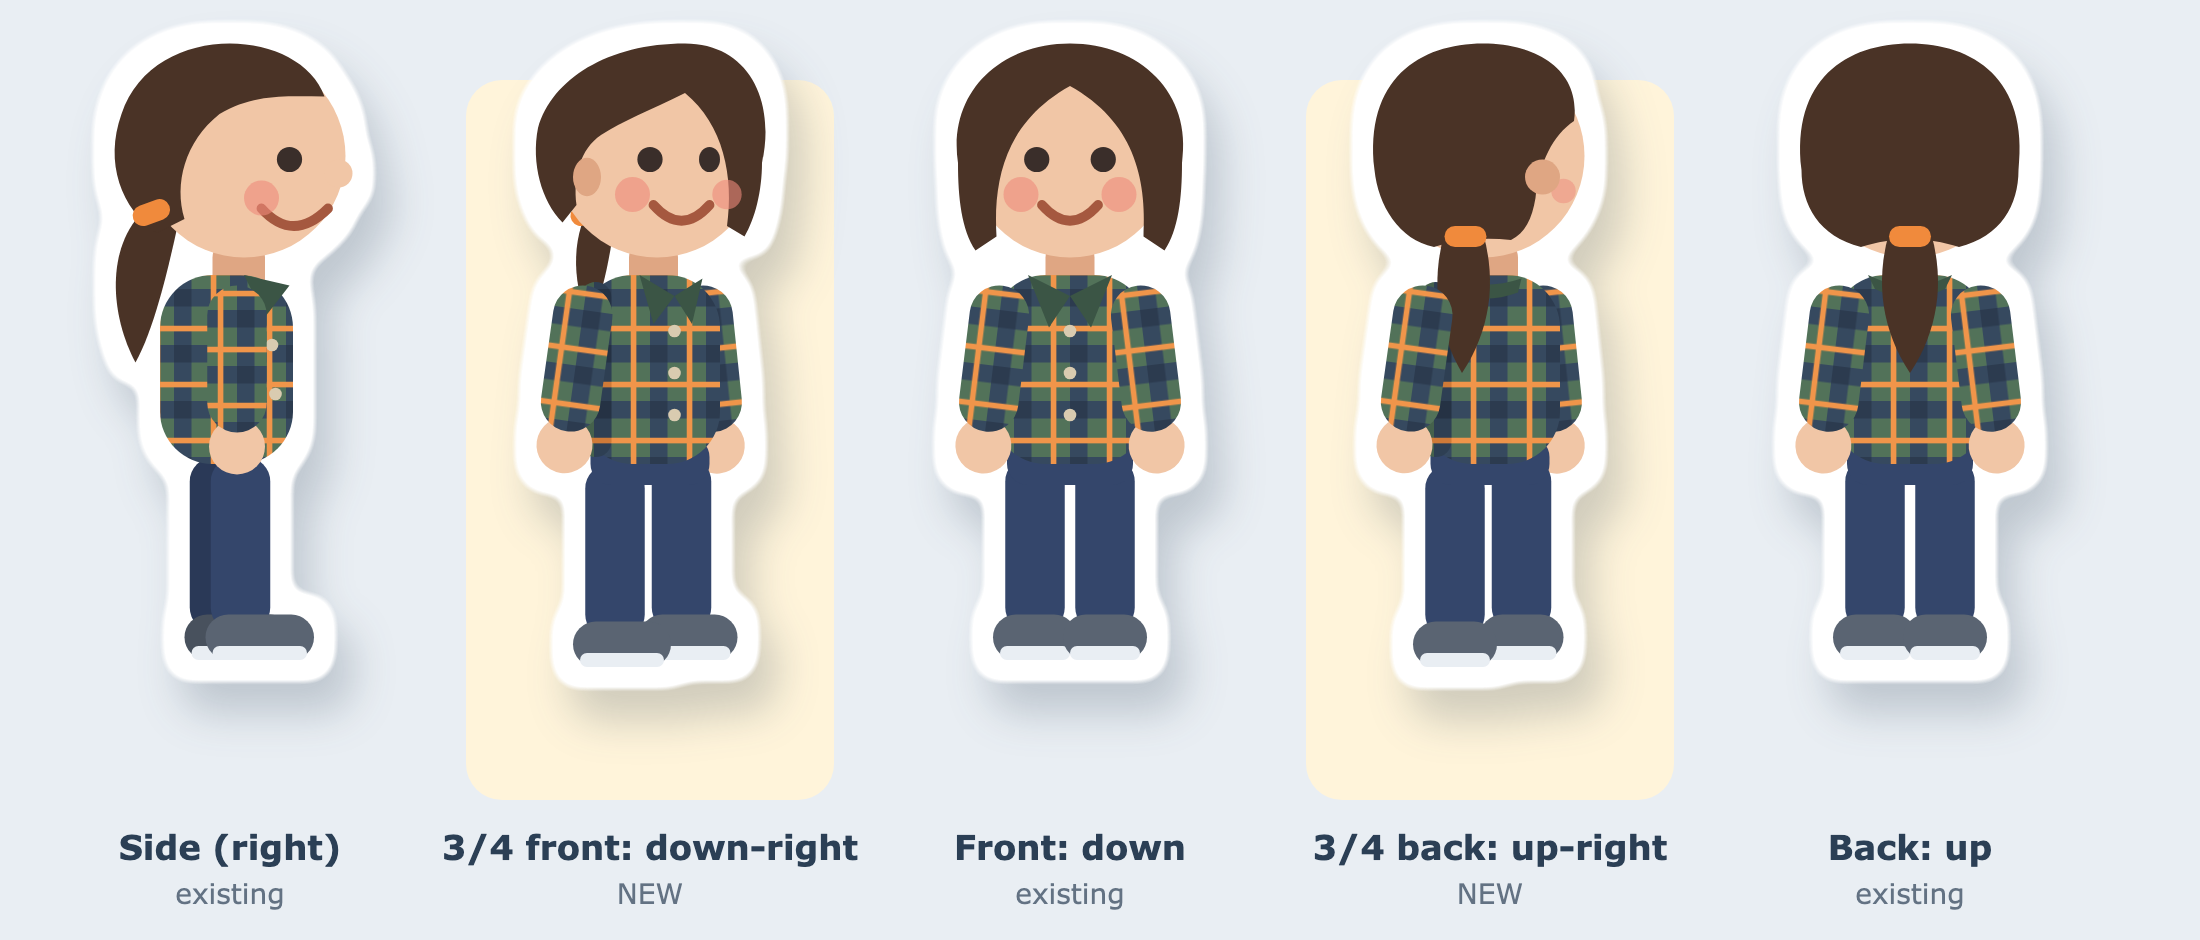
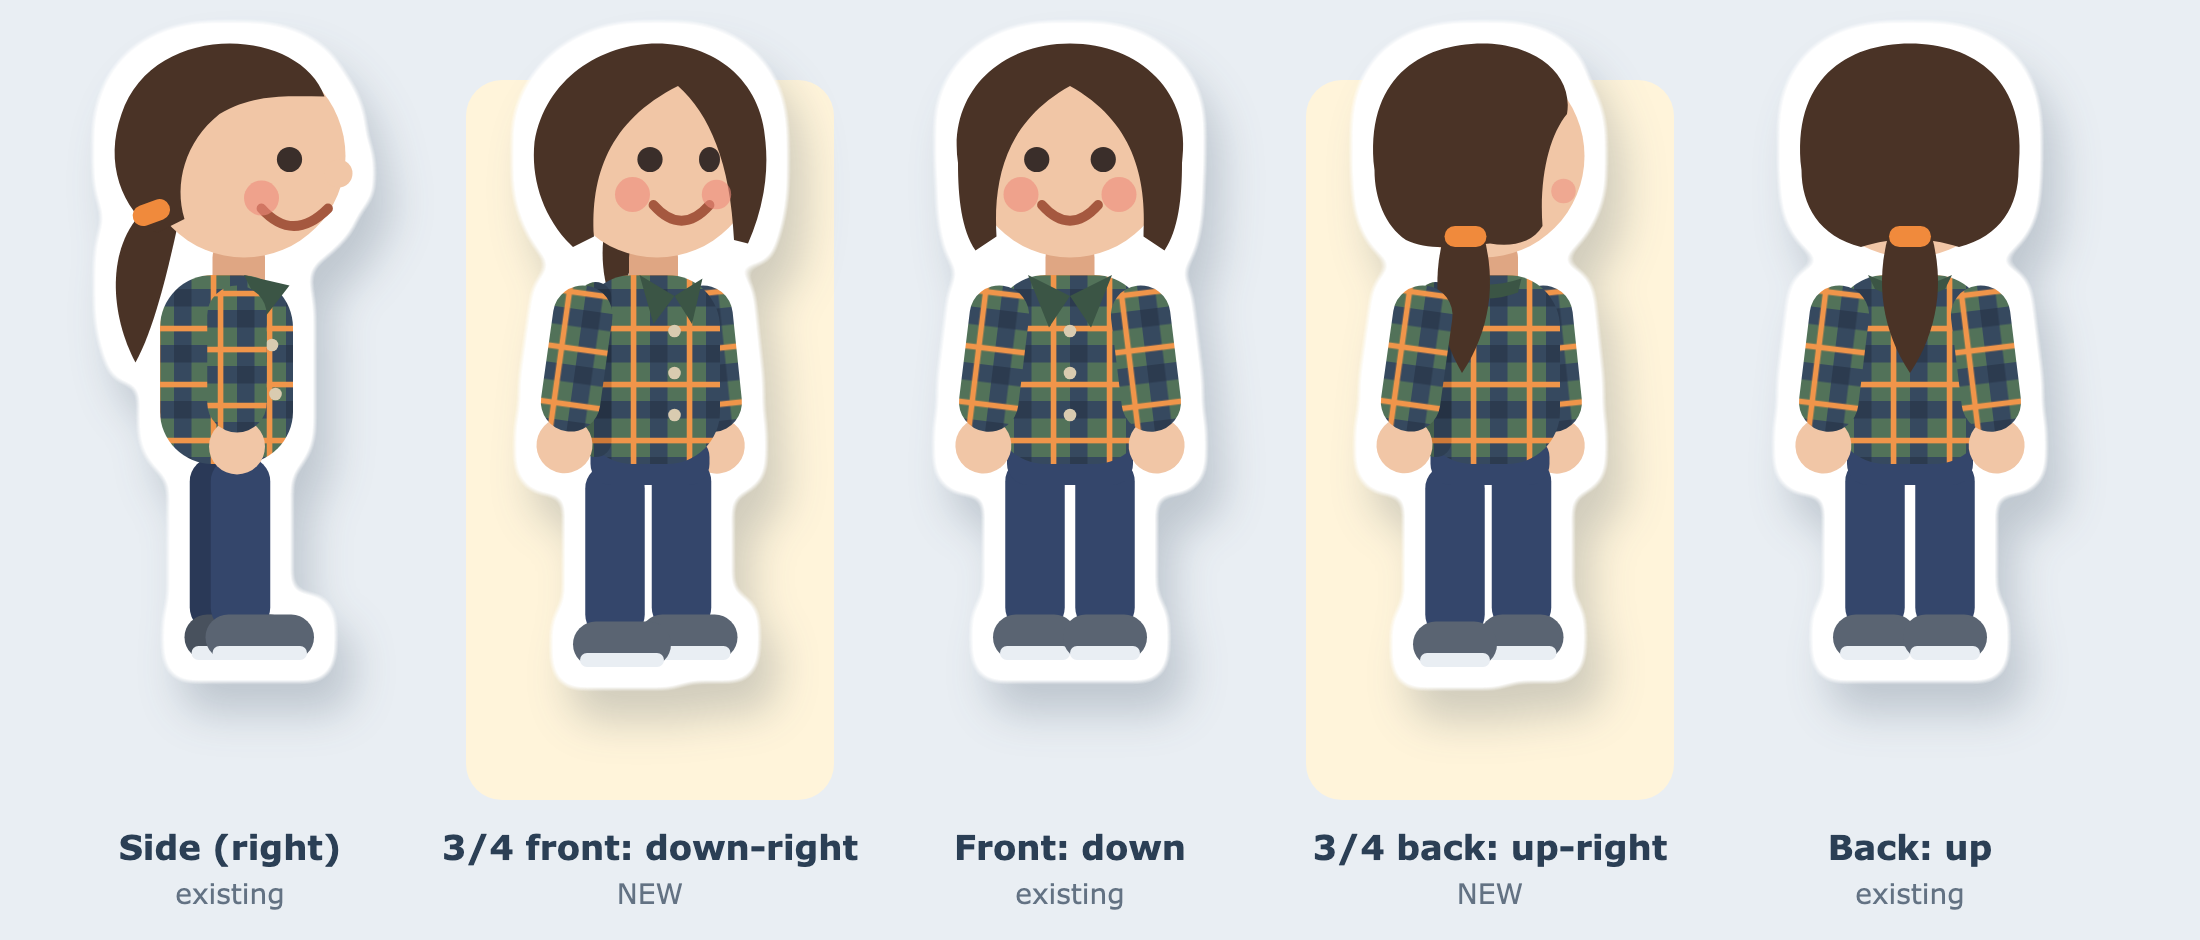
Diagonal mock-up: hair reworked over six review rounds to match the front/back hairstyle, turned
Claude-Session: https://claude.ai/code/session_01BrGLWcTLbFgPLYzVmKCwDF

diff --git a/src/mock_diag.py b/src/mock_diag.py
@@ -40,31 +40,27 @@ def torso_q(back):
     return s
 
 def upper_q_front():
-    # the ponytail hangs from the back of his head, so it is drawn first, behind his body:
-    # only a little shows, past the far side of his neck and shoulder
-    return (f'<path d="M-17,-72 C-23,-62 -22,-48 -17,-38 C-13,-48 -11,-60 -10,-68 Z" fill="{HAIR}"/>'
-        f'<rect x="-23" y="-73" width="10" height="6" rx="3" fill="{HAIR_TIE}" transform="rotate(-30 -18 -70)"/>' +
+    # Hair as in the front view (centre part, falling past the ears to the jaw), turned:
+    # the part sits right of centre, the near (left) side shows more hair, the far side a
+    # narrower fall beside the face. The ponytail hangs behind his neck, just out of sight.
+    return (f'<path d="M-11,-72 C-15,-62 -14,-50 -10,-42 C-6,-50 -4,-60 -3,-68 Z" fill="{HAIR}"/>' +
         torso_q(False) +
         f'<circle cx="2" cy="-86" r="29" fill="{SK}"/>'
-        # hair: part right of centre; on the right it falls to the jaw beside his face, on
-        # the left it is pulled back over the ear to the tie at the nape (like the side view)
-        f'<path d="M10,{T} C28,{T} 36,-102 32,-84 C32,-76 30,-68 27,-63 L22,-66 '
-        f'C24,-80 21,-95 10,-104 C0,-99 -8,-96 -14,-92 C-20,-88 -22,-80 -21,-72 '
-        f'L-25,-67 C-31,-73 -34,-84 -32,-94 C-28,-108 -12,{T} 10,{T} Z" fill="{HAIR}"/>'
-        f'<ellipse cx="-18" cy="-80" rx="4" ry="5.5" fill="{SK2}"/>'   # near ear, in front of the pulled-back hair
+        f'<path d="M28,-61 C32,-70 34,-80 33,-90 C32,-108 18,{T} 2,{T} C-14,{T} -30,-108 -33,-90 '
+        f'C-34,-80 -31,-70 -24,-62 L-22,-60 L-16,-63 C-17,-80 -12,-96 8,-106 C17,-98 23,-84 24,-62 Z" fill="{HAIR}"/>'
         # face turned right: near eye round, far eye a little narrower
         f'<circle cx="0" cy="-85" r="3.6" fill="{EYE}"/><ellipse cx="17" cy="-85" rx="3" ry="3.6" fill="{EYE}"/>'
         f'<path d="M1,-72 Q9,-63 17,-72" fill="none" stroke="{MOUTH}" stroke-width="2.8" stroke-linecap="round"/>'
-        f'<circle cx="-5" cy="-75" r="5" fill="{CHEEK}" opacity=".6"/><circle cx="22" cy="-75" r="4.2" fill="{CHEEK}" opacity=".6"/>')
+        f'<circle cx="-5" cy="-75" r="5" fill="{CHEEK}" opacity=".6"/><circle cx="19" cy="-75" r="4.2" fill="{CHEEK}" opacity=".6"/>')
 
 def upper_q_back():
+    # the back view turned right: hair over the whole back of the head and hanging to the
+    # jaw on the face side, with his cheek and jaw showing in front of it; ponytail down the back
     return (torso_q(True) +
         f'<circle cx="-2" cy="-86" r="29" fill="{SK}"/>'
         f'<circle cx="21" cy="-76" r="3.5" fill="{CHEEK}" opacity=".5"/>'
-        # hair pulled back from the turned-away face: cheek, jaw and ear show on the right
-        f'<path d="M-33,-82 C-36,-108 -20,{T} -2,{T} C14,{T} 26,-110 24,-96 '
-        f'C18,-92 14,-84 13,-74 C12,-68 10,-64 6,-62 C-2,-63 -10,-62 -16,-60 C-26,-62 -32,-72 -33,-82 Z" fill="{HAIR}"/>'
-        f'<circle cx="15" cy="-80" r="5" fill="{SK2}"/>'              # ear, just behind the hairline
+        f'<path d="M-33,-82 C-36,-108 -20,{T} -2,{T} C12,{T} 24,-110 22,-98 '
+        f'C17,-92 14,-80 15,-66 C12,-61 6,-60 0,-61 C-10,-60 -18,-59 -24,-62 C-30,-66 -33,-74 -33,-82 Z" fill="{HAIR}"/>'
         f'<path d="M-13,-64 C-17,-50 -15,-36 -8,-24 C0,-36 2,-50 -2,-64 Z" fill="{HAIR}"/>'
         f'<rect x="-13" y="-66" width="12" height="6" rx="3" fill="{HAIR_TIE}"/>')
 

diff --git a/docs/CHANGES.md b/docs/CHANGES.md
@@ -248,3 +248,12 @@ The first playable piece, in `game/`, built with Vite + TypeScript + PixiJS 8.21
   - The e2e checks closing by a tap outside the card.
 - On screens narrower than 640 px (phones in portrait), the top bar shows only money and ⟳. The fps/people chip and the +10/Clear test buttons wrapped into a mess there.
 - **Diagonal views mock-up** (`src/mock_diag.py`, for sign-off): following Nico's note, the 3/4 front ponytail now hangs behind his head and neck instead of over his shoulder.
+- **Diagonal hair, iterated over six review rounds** (Nico: "something going on with the hair" in the down-right view). Rejected along the way:
+  - a straight diagonal hairline that cut across the forehead;
+  - a skull-hugging curve that read as a bowl cut;
+  - arched hairlines that gave him a big domed forehead;
+  - pulled-back hair with the ear showing. This was the root problem: his front view has hair falling past the ears to the jaw, so the 3/4 view didn't match.
+
+  **Kept:**
+  - **3/4 front:** the front view's centre-part hairstyle, turned. The part is right of centre, the near side shows more hair, and the far side has a narrow fall beside his face. The ponytail hangs out of sight behind his neck.
+  - **3/4 back:** hair covers the back of his head and hangs to the jaw, with his cheek showing in front of it.
